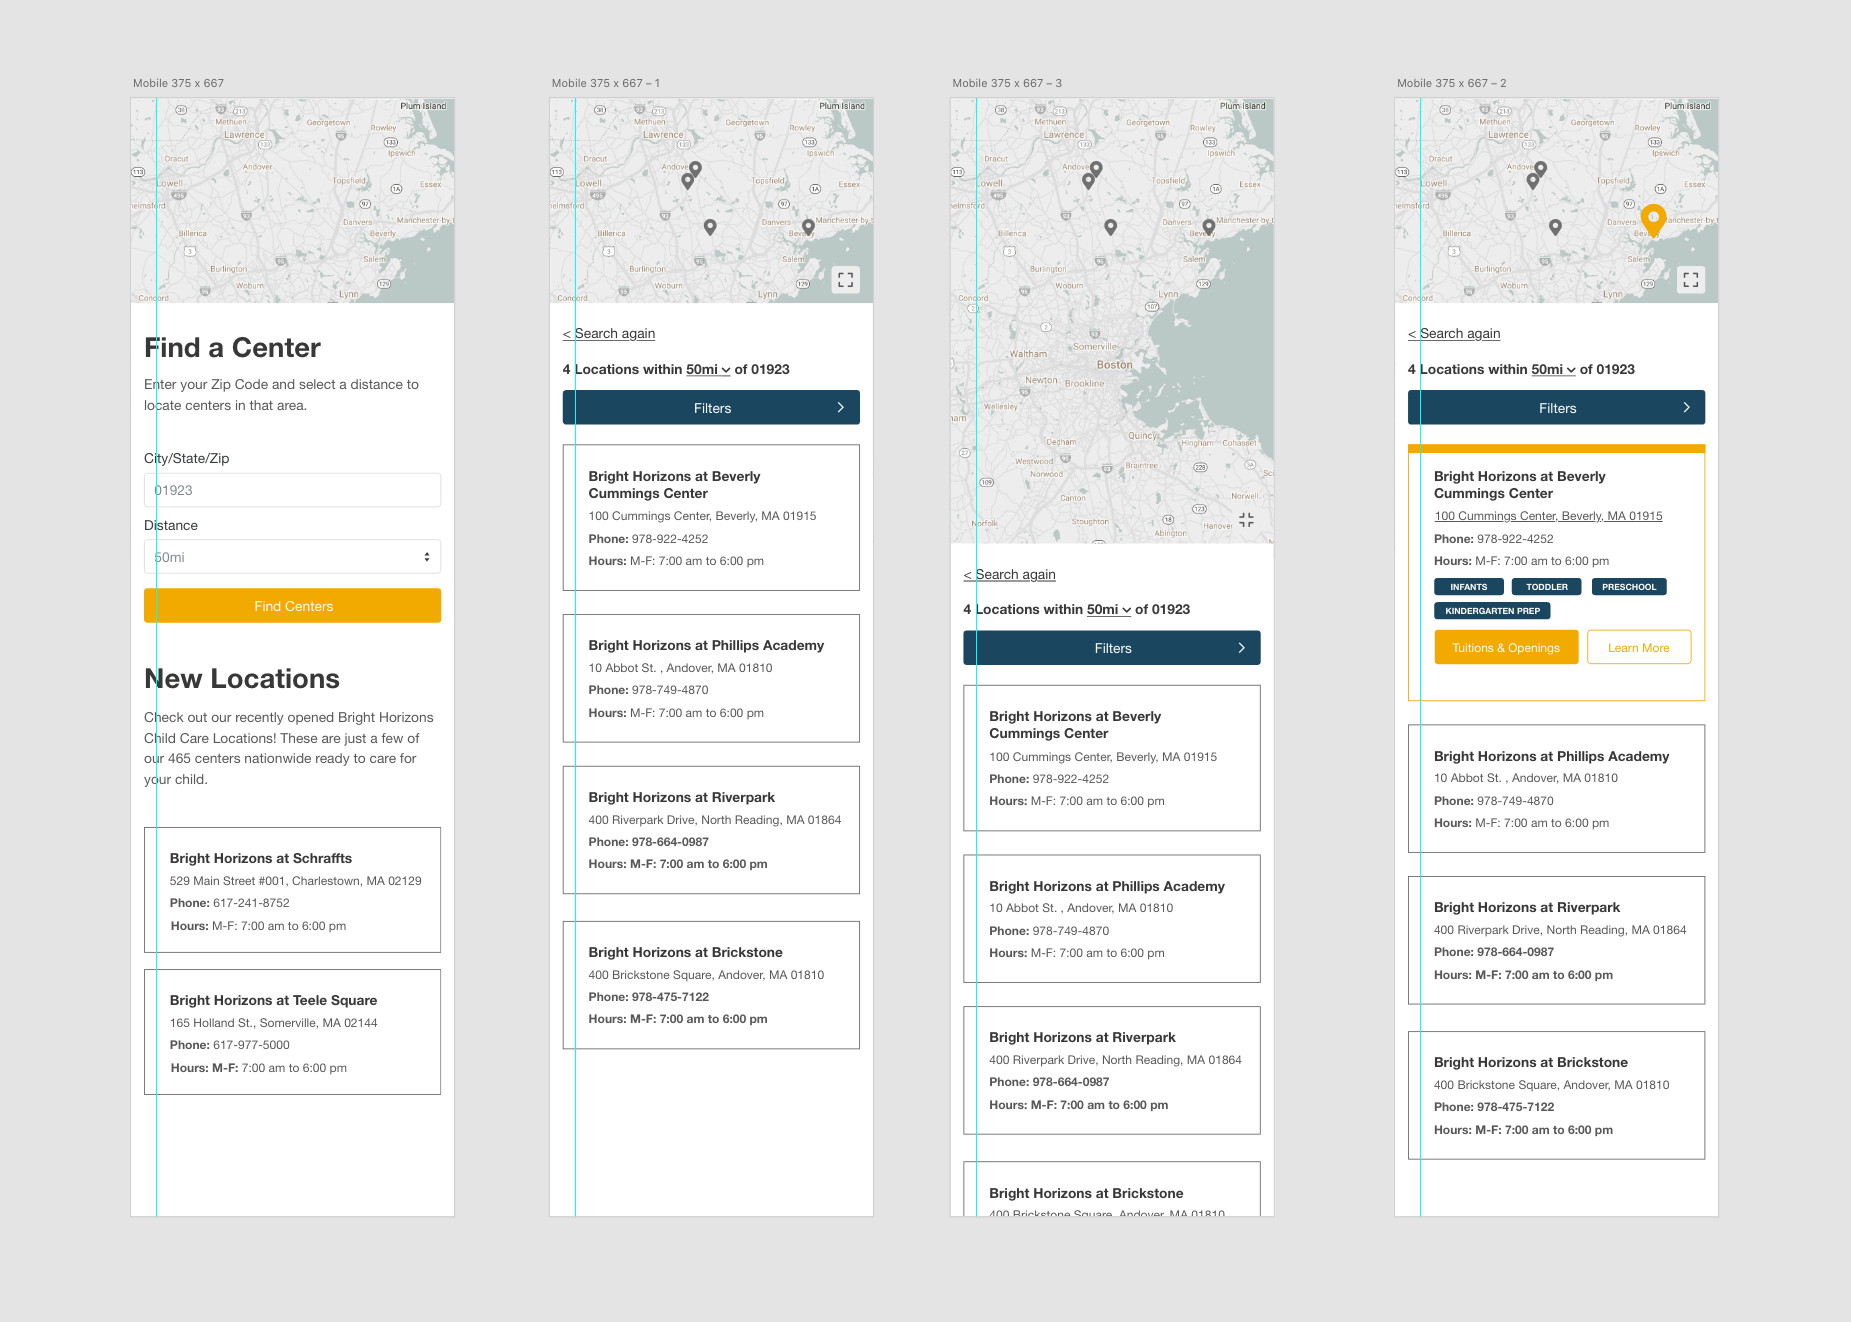
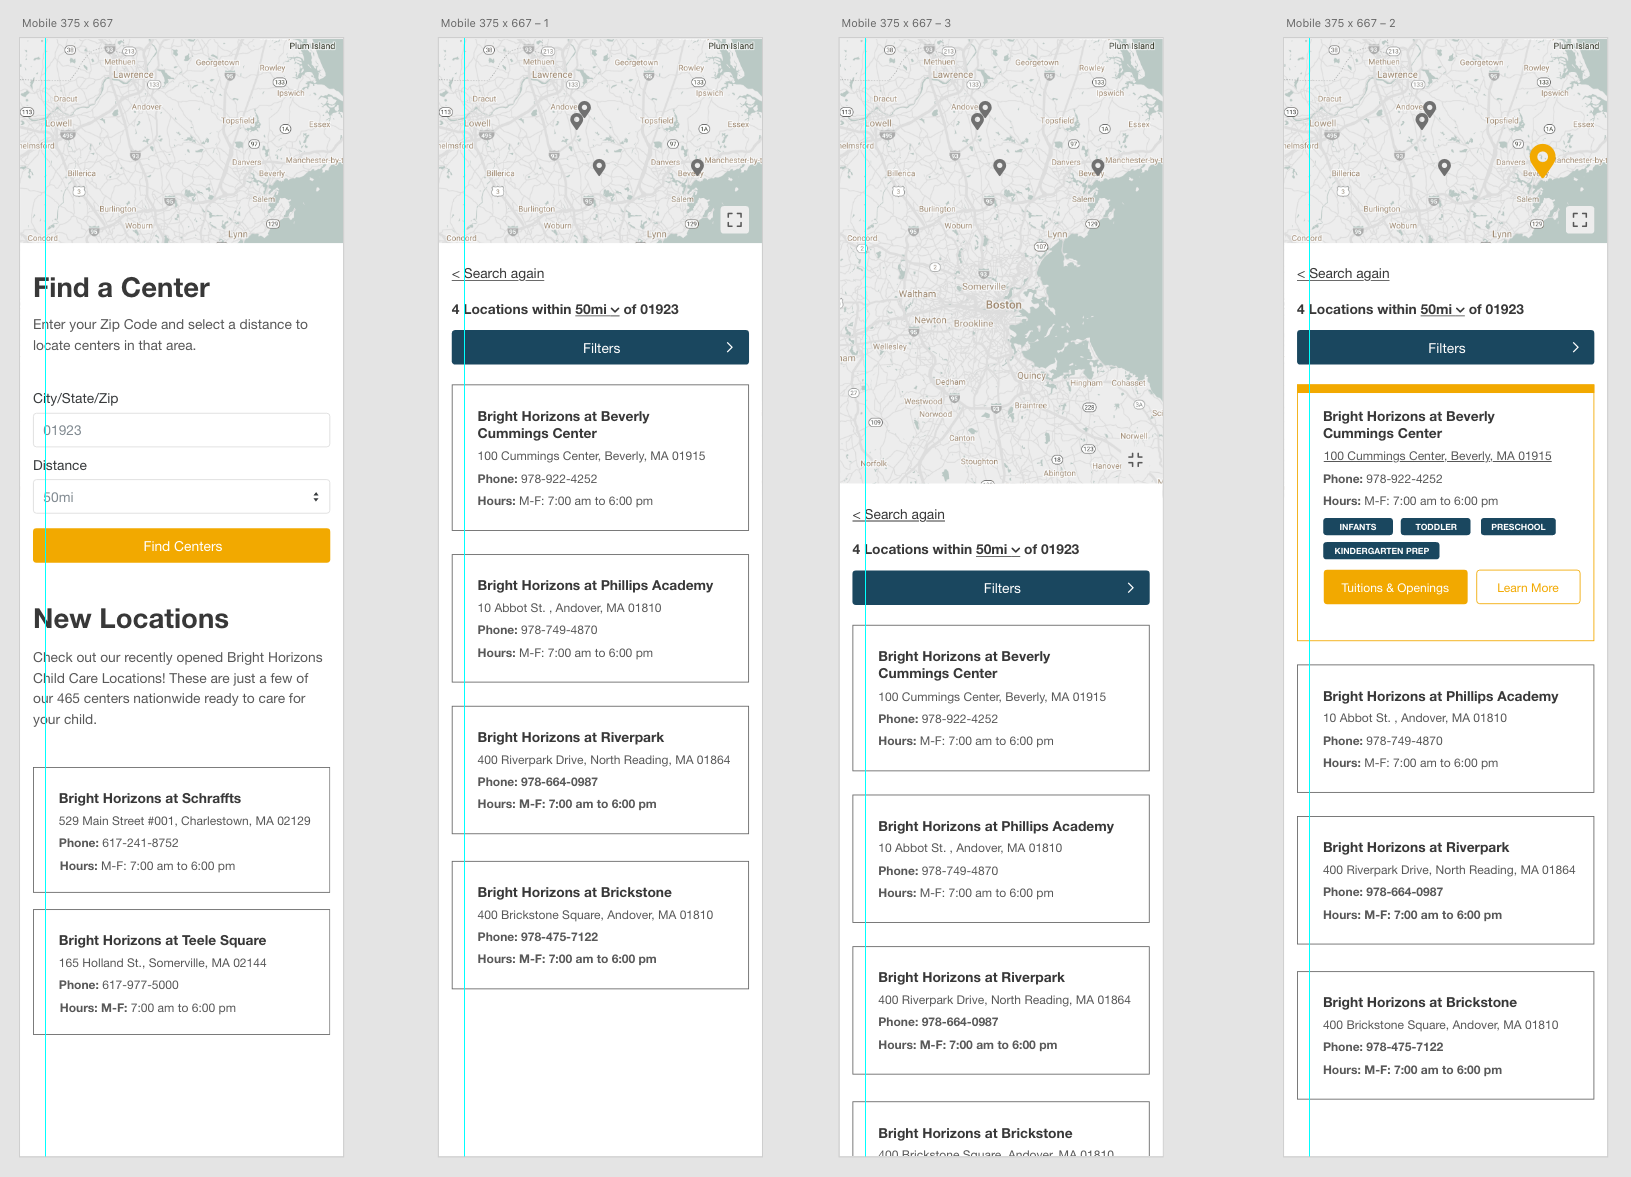
paragraph spacing and image adjustments

diff --git a/bh.html b/bh.html
@@ -40,69 +40,94 @@
     </div>
   </div>
   <div class="page_content">
-    <h4>Objective</h4>  
-      <p class="child_copy">Bright Horizons was seeking to improve one of their many lead generation processes by iterating on their child care center location tool. The old experience was unfriendly to mobile devices, provided minimal clarity to users in areas where there are a ot of child care centers, and wasn't built on a system that could be updated easily.</p>
-    <h4>Solution</h4>
-      <p id="child_copy_list">The solution was broken into three core parts: 
-        <ul class="child_copy_list">
-          <li class="child_copy_list_item">Create a map powered by Google Maps to align with the industry standard for location services</li>
-          <li class="child_copy_list_item">Optimize the design to service desktop and mobile better devices regardless of device size</li>
-          <li class="child_copy_list_item">Provide child care center location details on click/tap for quicker highlight information.</li>
-      </ul>
-      <embed type="text/html" src="https://www.brighthorizons.com/find-a-center" width="100%" height="700">
-      <center><figcaption class="fig_caption">The new Center Locator Tool <a href="https://www.brighthorizons.com/find-a-center"><u>See It Here</u></a></figcaption></center>
-    </p> 
-  </div>
+    <div class="child_copy_block">
+      <h4>Objective</h4>  
+        <p class="child_copy">Bright Horizons was seeking to improve one of their many lead generation processes by iterating on their child care center location tool. The old experience was unfriendly to mobile devices, provided minimal clarity to users in areas where there are a ot of child care centers, and wasn't built on a system that could be updated easily.</p>
+      </div>
+    <div class="child_copy_block">
+      <h4>Solution</h4>
+        <p id="child_copy_list">The solution was broken into three core parts: 
+          <ul class="child_copy_list">
+            <li class="child_copy_list_item">Create a map powered by Google Maps to align with the industry standard for location services</li>
+            <li class="child_copy_list_item">Optimize the design to service desktop and mobile better devices regardless of device size</li>
+            <li class="child_copy_list_item">Provide child care center location details on click/tap for quicker highlight information.</li>
+          </ul>
+        </p>
+      </div>
+    </div>
+    <div class="image_fig">
+      <center>
+        <embed type="text/html" src="https://www.brighthorizons.com/find-a-center" width="60%" height="800">
+      </center>
+    </div>
+    <center><figcaption class="fig_caption">The new Center Locator Tool <a href="https://www.brighthorizons.com/find-a-center"><u>See It Here</u></a></figcaption></center>
   <div class="page_content">
-    <h4>Process</h4>
-      <p class="child_copy">The hardest part of improving the locator tool was determining which improvement would make the most impact to the user base. The old locator tool was forcing users to locate their nearest location via a massive full screen map and a tiny ZIP code box that was attached to an infinite scrolling results list.</p>
+    <div class="child_copy_block_2">
+      <h4>Process</h4>
+        <p class="child_copy">The hardest part of improving the locator tool was determining which improvement would make the most impact to the user base. The old locator tool was forcing users to locate their nearest location via a massive full screen map and a tiny ZIP code box that was attached to an infinite scrolling results list.</p>
+      </div>
   </div>
   <div class="image_fig">
-    <img src="Center-locator-old.png" alt="The old Center Locator Tool" width="100%" />
-    <center><figcaption class="fig_caption">The Old Center Locator Tool</figcaption></center>
+    <center><img src="Center-locator-old.png" alt="The Old Center Locator Tool" width="80%" /></center>
   </div>
-  <div class="page_content">
-    <p class="child_copy">To create the largest improvement for our users we needed to ensure the largest possible audience could use the tool in the first place regardless of wich device they were on. This led us to separating the search and results list from its old location overlaying the map.</p> 
+  <center><figcaption class="fig_caption">The Old Center Locator Tool</figcaption></center>
+  <div class="child_copy_block_2">
+    <div class="page_content">
+      <p class="child_copy">To create the largest improvement for our users we needed to ensure the largest possible audience could use the tool in the first place regardless of wich device they were on. This led us to separating the search and results list from its old location overlaying the map.</p> 
+    </div>
   </div>
   <div class="image_fig">
-    <center><img src="Center-locator-sketch.png" alt="Sketch of the new Center Locator Tool" height="850px" /></center>
-    <center><figcaption class="fig_caption">Sketch of the new Center Locator layout along with an improved pin</figcaption></center>
+    <center><img src="Center-locator-sketch.png" alt="Sketch of the new Center Locator Tool" width="50%" /></center>
   </div>
-  <div class="page_content">
-    <p class="child_copy">Adding essential information to the existing map pins was the lowest hanging fruit for improvement. Map users of the internet today are familiar with the mental model of pins and we opted to lean into that by adding only the essential pieces of information parents need to know was as a way to declutter the overall design and lighten up the search results.</p>
+  <center><figcaption class="fig_caption">Sketch of the new Center Locator layout along with an improved pin</figcaption></center>
+  <div class="child_copy_block_2">
+    <div class="page_content">
+      <p class="child_copy">Adding essential information to the existing map pins was the lowest hanging fruit for improvement. Map users of the internet today are familiar with the mental model of pins and we opted to lean into that by adding only the essential pieces of information parents need to know was as a way to declutter the overall design and lighten up the search results.</p>
+    </div>
   </div>
   <div class="image_fig">
     <center><img src="Center-locator-wires-early-2.png" alt="Early improvements to the current system" height="900px" /></center>
-    <center><figcaption class="fig_caption">Early improvements to the current system</figcaption></center>
   </div>
-  <div class="page_content">
-    <p class="child_copy">After internal review we determined that while the presentation of the map and its results was in a better spot than before, the vertical split of map and search results was too closely mirroring the previous iteration and was ultimately still limiting mobile visitors control.
+  <center><figcaption class="fig_caption">Early improvements to the current system</figcaption></center>
+  <div class="child_copy_block_2">
+    <div class="page_content">
+      <p class="child_copy">After internal review we determined that while the presentation of the map and its results was in a better spot than before, the vertical split of map and search results was too closely mirroring the previous iteration and was ultimately still limiting mobile visitors control.
 
-    Therefore a decision was made to approach the map and search tools in a horizontal 50/50 split of the page with a much lighter landing experience for new visitors. This would lead into a more refined filtering results page with a double set of cards and a lot more visual room to massage information around that is friendlier to different device types.</p>
+      Therefore a decision was made to approach the map and search tools in a horizontal 50/50 split of the page with a much lighter landing experience for new visitors. This would lead into a more refined filtering results page with a double set of cards and a lot more visual room to massage information around that is friendlier to different device types.</p>
+    </div>
   </div>
   <div class="image_fig">
-    <img src="Center-locator-wires-early.png" alt="Early wireframe iterations" width="100%" />
-    <center><figcaption class="fig_caption">Early wireframe iterations</figcaption></center>
+    <center><img src="Center-locator-wires-early.png" alt="Early wireframe iterations" width="90%"/></center>
   </div>
+  <center><figcaption class="fig_caption">Early wireframe iterations</figcaption></center>
+  <div class="child_copy_block_2">
+    <div class="page_content">
+      <p class="child_copy">Upon final review we scrapped the early introductary search screens as they took up too many clicks for the user and we wanted to plant the visitor directly into the map experience instead. This became an incredibly streamlined flow for the user as they could now immediately search for their location or choose pins upon initial arrival. Additionally the presentation of multiple cards on screen along with sophisticated filtering gives the user maximum control without detracting from the initial purpose of visit.</p>
+    </div>
+  </div>
+  <div class="image_fig">
+    <center><img src="Center-locator-wires-desktop.png" alt="Desktop view of the new Center Locator Tool" width="90%"/></center>
+  </div>
+  <center><figcaption class="fig_caption">Desktop view of the new Center Locator Tool</figcaption></center>
+  <div class="child_copy_block_2">
+    <div class="page_content">
+      <p class="child_copy">We knew we were on the right track when the mobile wireframes flow could still operate naturally as a map, search and results page all at the same time without detracting from the overall goal of finding a center.</p>
+    </div>
+  </div>
+  <div class="image_fig">
+    <center><img src="Center-locator-wires-mobile.png" alt="Mobile view of the new Center Locator Tool" width="90%"/></center>
+  </div>
+  <center><figcaption class="fig_caption">Mobile view of the new Center Locator Tool</figcaption></center>
+  
   <div class="page_content">
-    <p class="child_copy">Upon final review we scrapped the early introductary search screens as they took up too many clicks for the user and planted the visitor directly into the map experience instead. This became an incredibly streamlined flow for the user as they could now immediately search for their location or choose pins upon initial arrival. Additionally the presentation of multiple cards on screen along with sophisticated filtering gives maximal control without detracting from the initial purpose of visit.</p>
-  </div>
-  <div class="image_fig">
-    <img src="Center-locator-wires-desktop.png" alt="Desktop view of the new Center Locator Tool" width="100%" />
-    <center><figcaption class="fig_caption">Desktop view of the new Center Locator Tool</figcaption></center>
-  </div>
-  <div class="page_content">
-    <p class="child_copy">We knew we were on the right track when the mobile wireframes natural information flow could still operate as a map and a search and results page at the same time without detracting from the overall goal of finding a center..</p>
-  </div>
-  <div class="image_fig">
-    <img src="Center-locator-wires-mobile.png" alt="Mobile view of the new Center Locator Tool" width="100%" />
-    <center><figcaption class="fig_caption">Mobile view of the new Center Locator Tool</figcaption></center>
-  </div>
-  <div class="page_content">   
-    <h4>Result</h4>
-    <p class="child_copy">The live version of the new Center Locator tool can be seen <a href="https://www.brighthorizons.com/find-a-center">here.</a> This enhanced tool has enabled Bright horizons to better display the locations of their child care centers, highlight to their users any essential information they need about each one, and streamline the lead collection experience.</p>
-    <h4>Related Work From This Client</h4>
-    <p class="child_copy">New homepage, Current single page lead form, EDW flow</p> 
+    <div class="child_copy_block">   
+      <h4>Result</h4>
+      <p class="child_copy">The live version of the new Center Locator tool can be seen <a href="https://www.brighthorizons.com/find-a-center">here.</a> This enhanced tool has enabled Bright horizons to better display the locations of their child care centers, highlight to their users any essential information they need about each one, and streamline their lead collection experience.</p>
+    </div>
+    <div class="child_copy_block"> 
+      <h4>Related Work From This Client</h4>
+      <p class="child_copy">New Homepage, Current Single Page Lead Form</p>
+    </div> 
   </div>
   
   

diff --git a/style.css b/style.css
@@ -6,6 +6,7 @@ body {
   margin-left: 0;
   margin-right: 0;
   margin-bottom: 0;
+  margin-top: 0;
 }
 
 .indent{
@@ -30,45 +31,14 @@ body {
 .image_fig {
   margin-top: 60px;
   display: block;
+  -webkit-filter: drop-shadow(6px 6px 4px #cccccc);;
 }
 
 .fig_caption{
   padding-top: 16px;
   padding-bottom: 16px;
+  color: #434343;
 }
-
-
-.images {
-  width:100%;
-  max-width:1100px;
-  -webkit-filter: drop-shadow(6px 6px 9px #cccccc);
-        filter: drop-shadow(6px 6px 9px #cccccc); 
-
-  transition:  .2s ease-in-out;      
-}
-
-/* 
-.images:hover {
-  transform: scale(1.5);
-}
-*/
-
-/*
-
-.imgLink { border: none; background: none; }
-.imgLink img
-{
-  height: 40rem;
-  cursor: pointer;
-    -webkit-filter: drop-shadow(6px 6px 9px #cccccc);
-        filter: drop-shadow(6px 6px 9px #cccccc); 
-}
-.imgLink:active img, .imgLink:focus img
-{
-  height: 60rem;
-}
-
-*/
 
 .Reach-out-btn {
   background-color: black;
@@ -709,6 +679,16 @@ b {
     font-size: 24px;
     line-height: 2.6rem;
     white-space: pre-line;
+    
+  }
+
+  .child_copy_block{   /* Text and h4 */
+    margin-bottom: 4rem;
+  }
+
+  .child_copy_block_2{ /* Text between two images */
+    margin-top: 6rem;
+    margin-bottom: 8rem;
   }
 
 }
